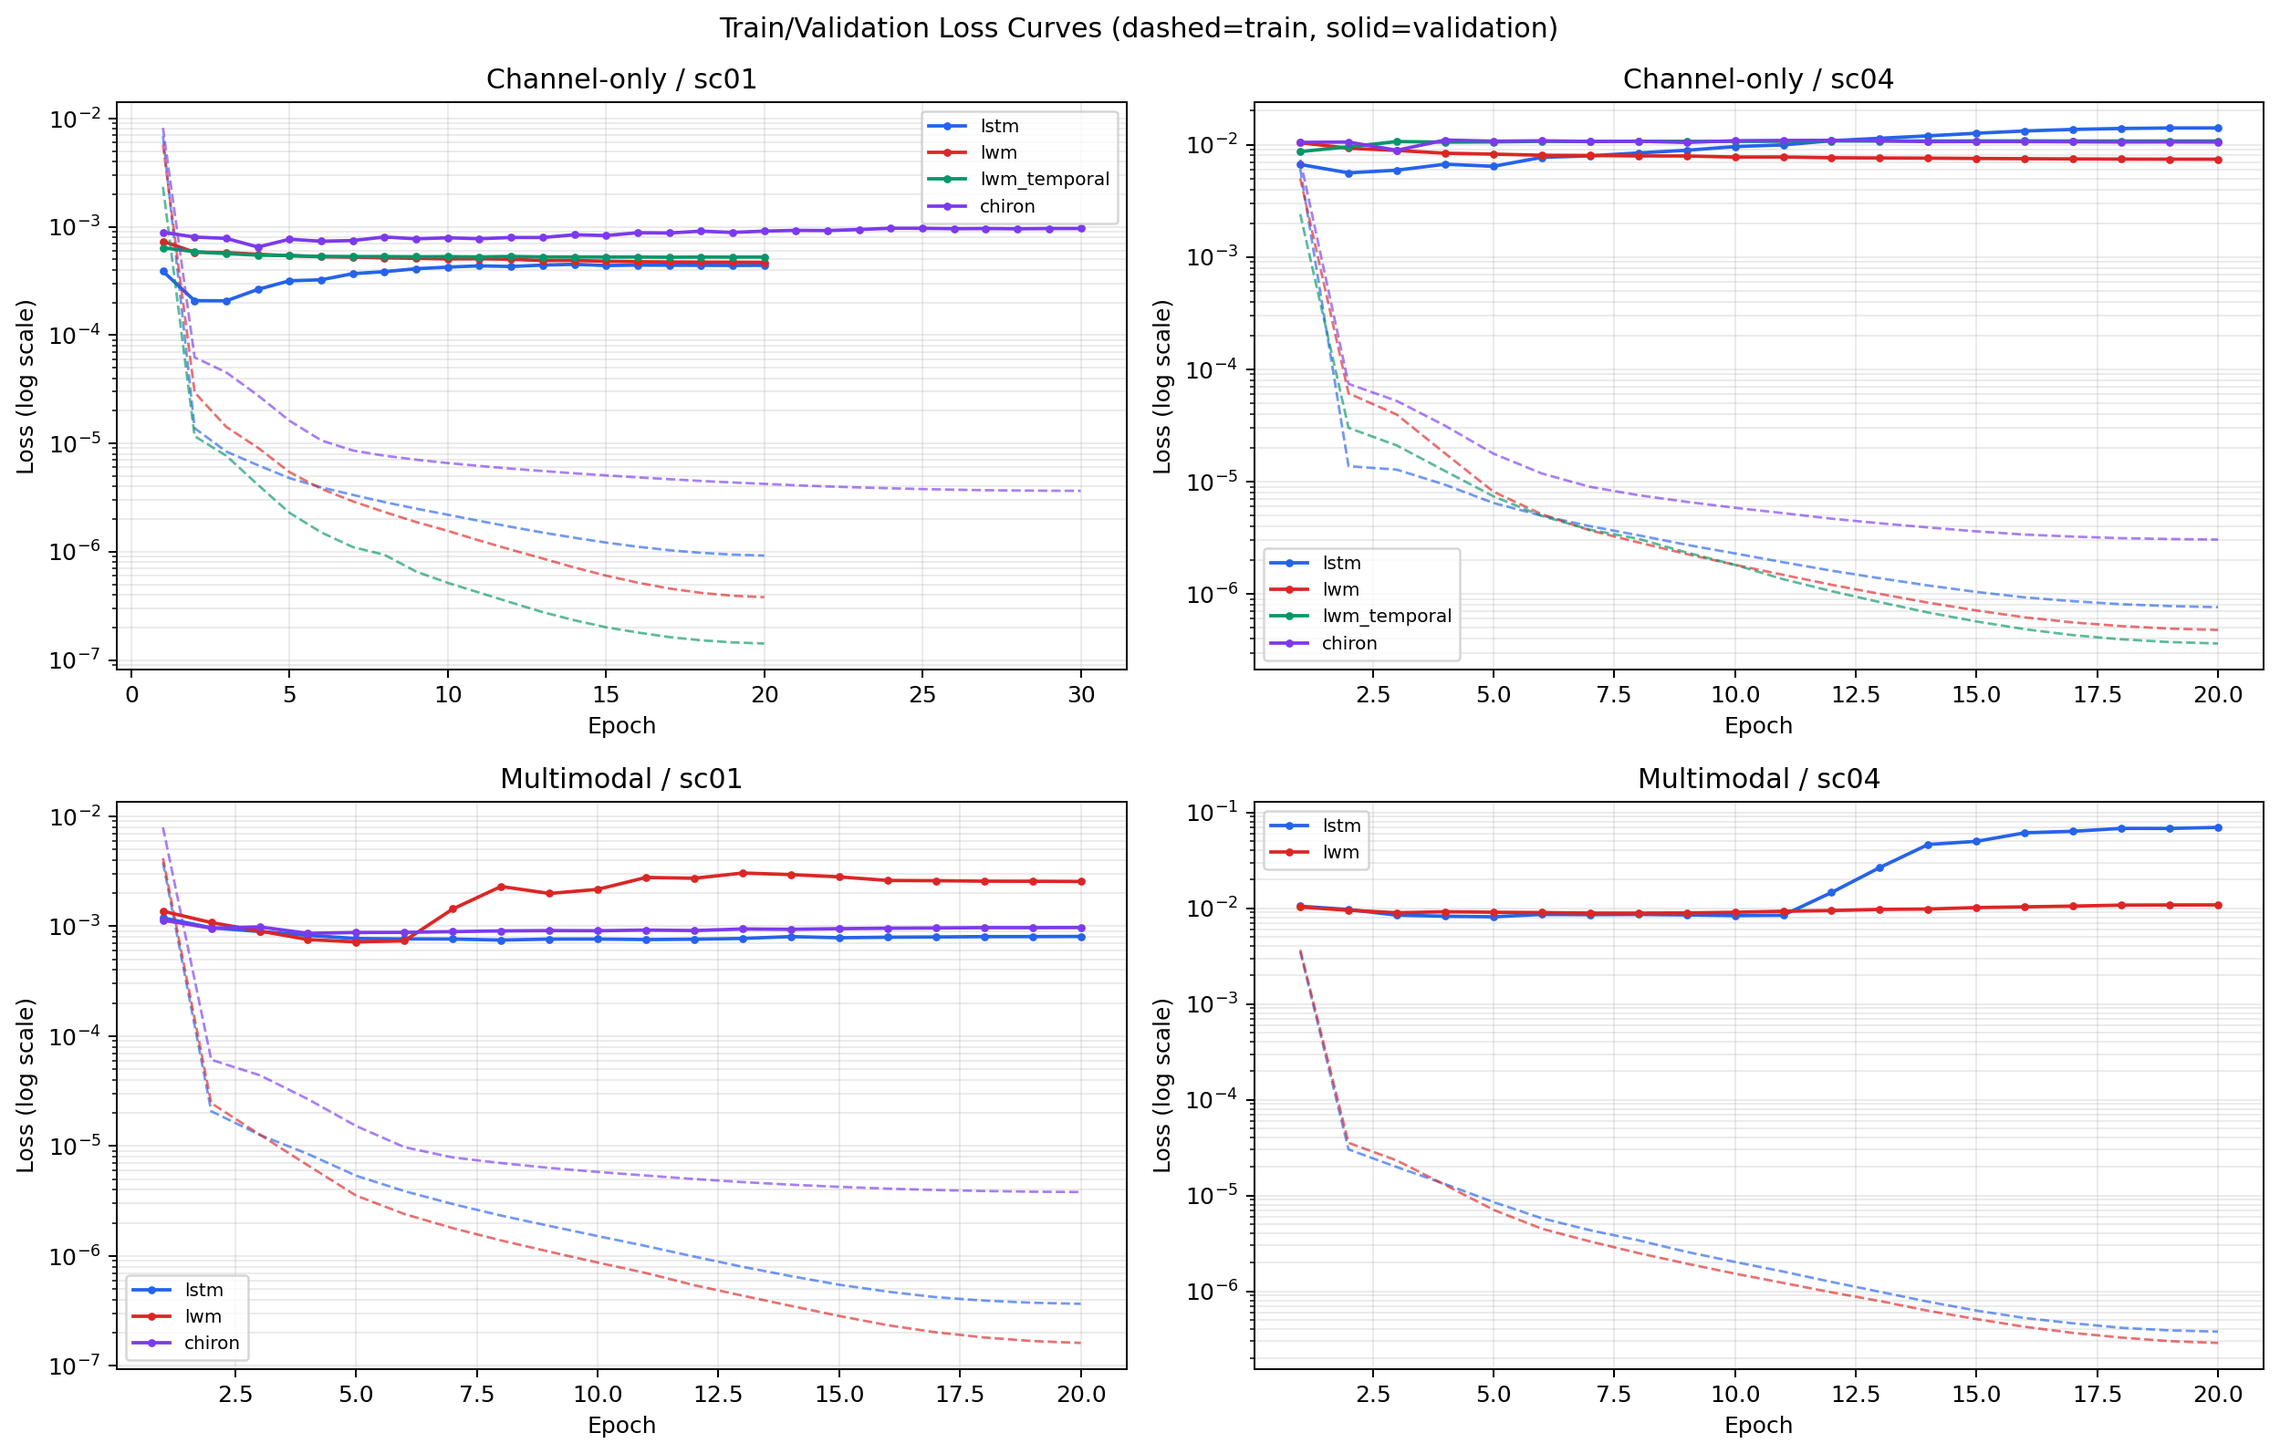
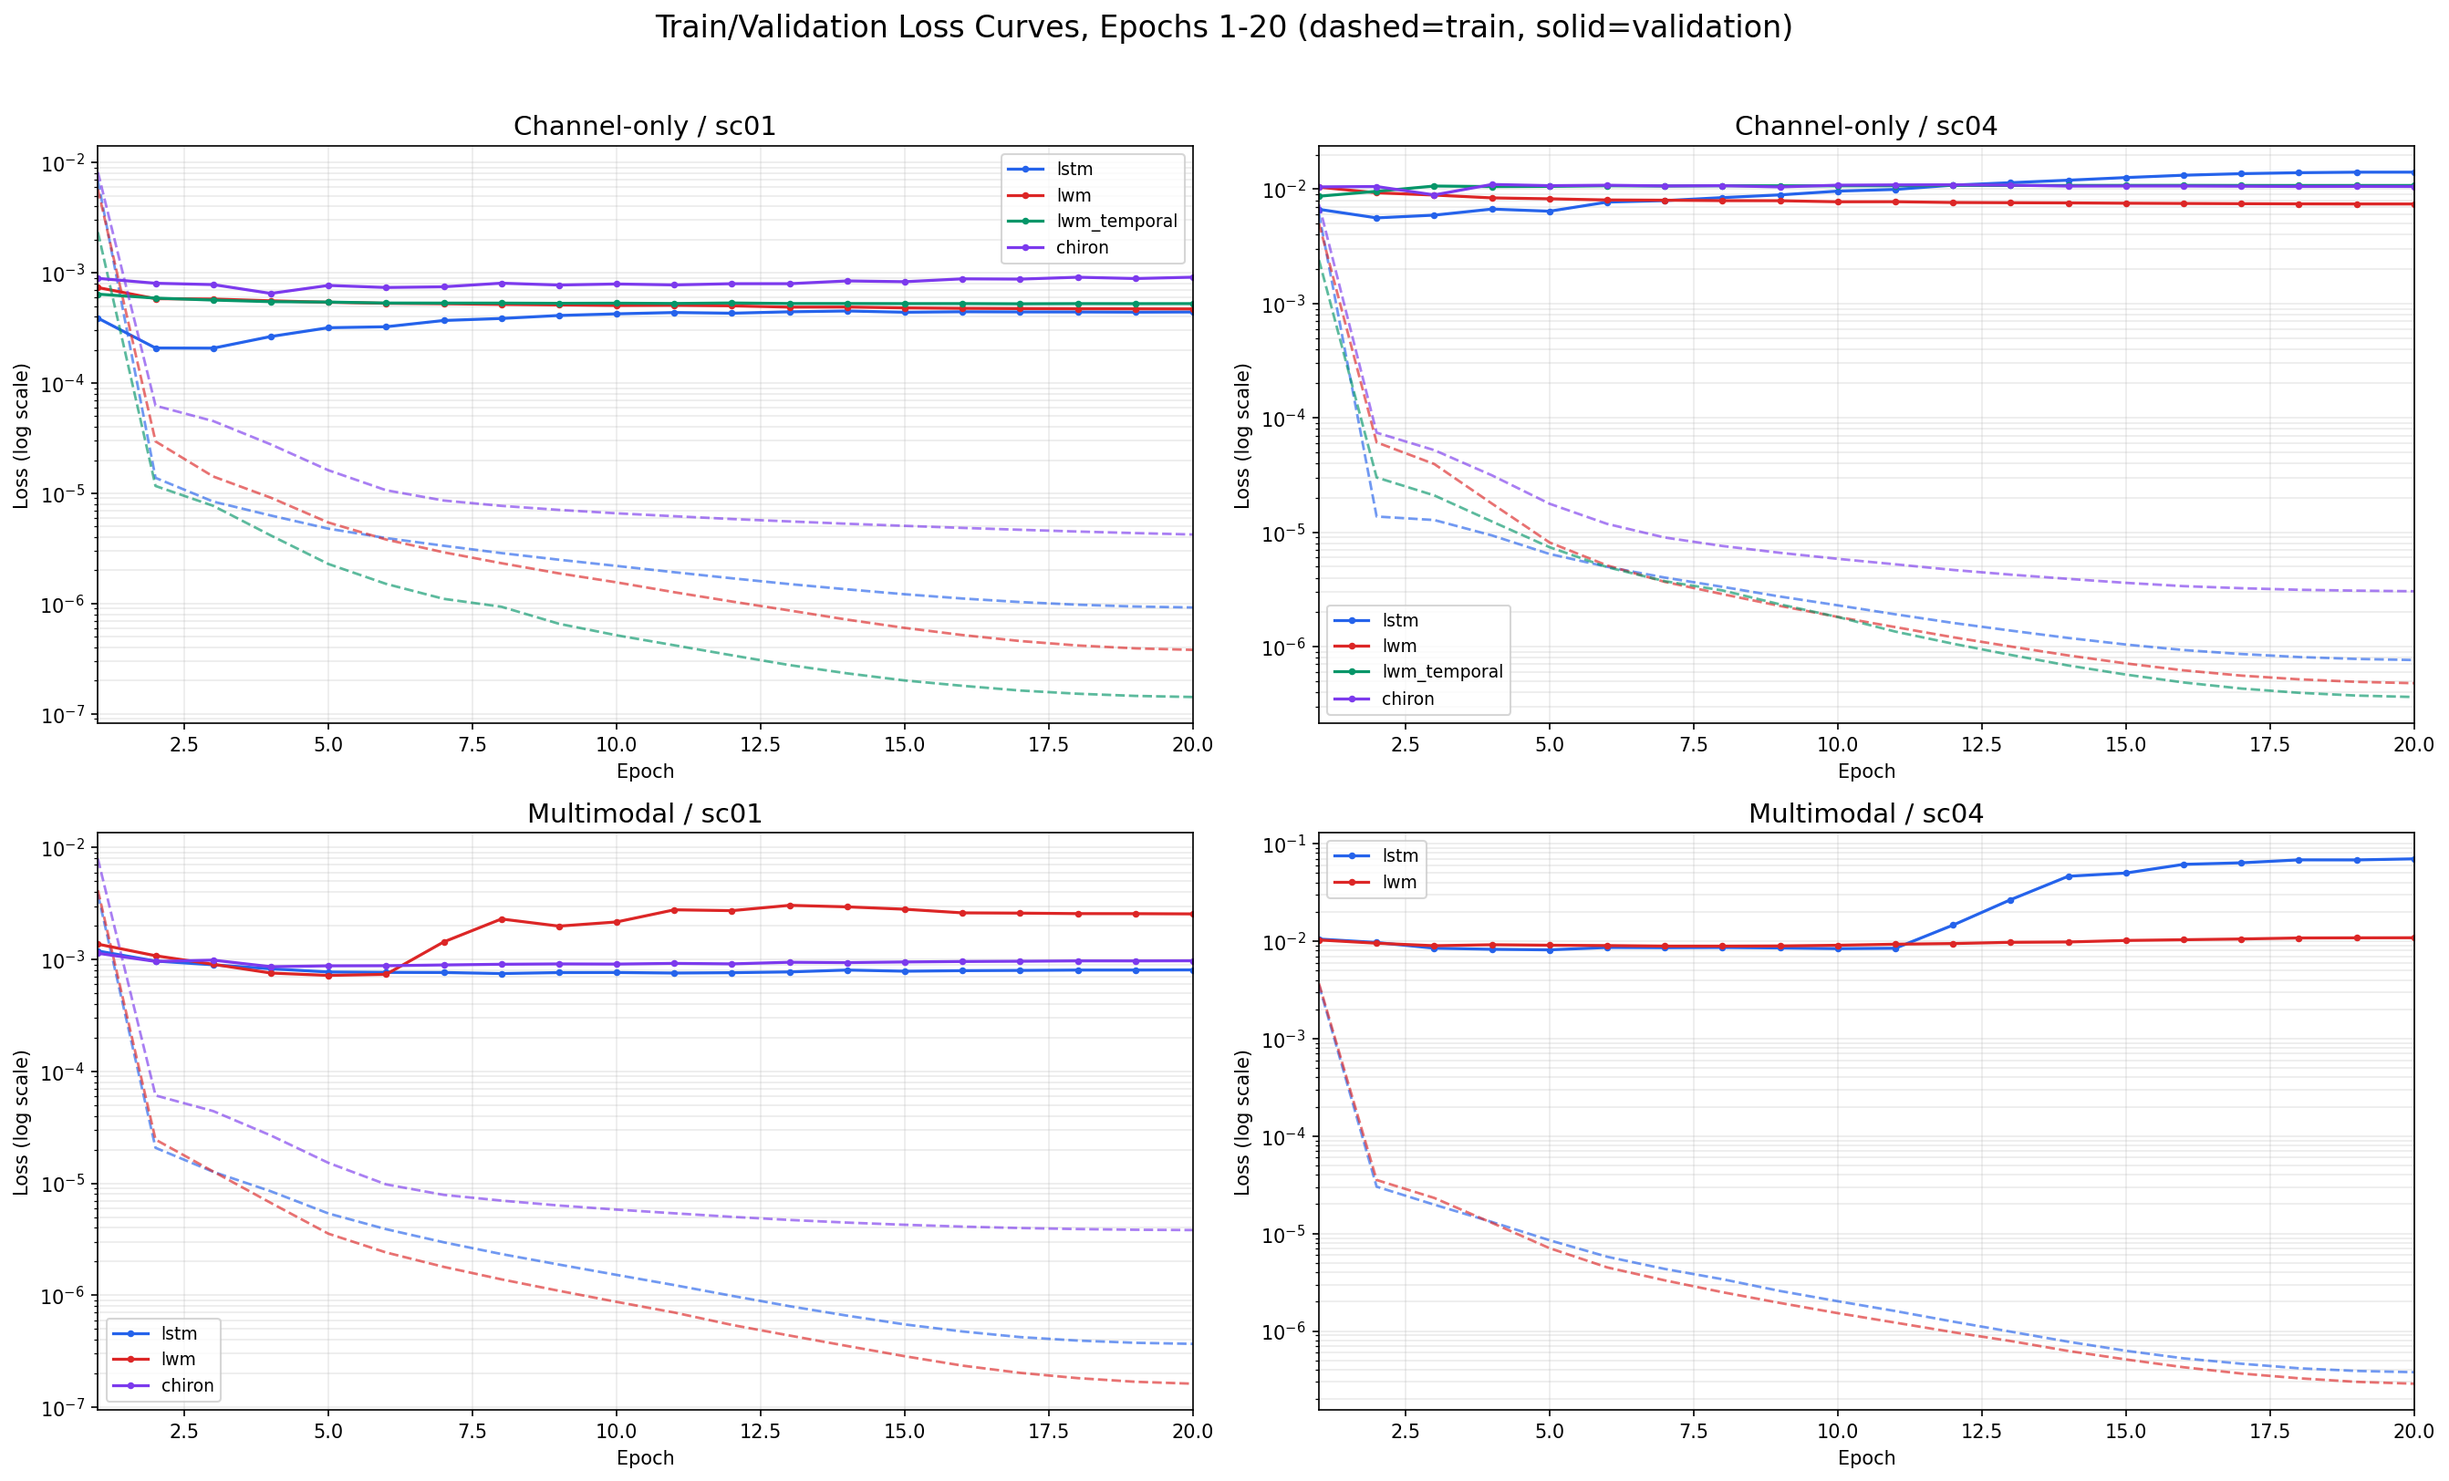
docs: limit loss curves to epoch 20

diff --git a/EXPERIMENT_RESULTS.md b/EXPERIMENT_RESULTS.md
@@ -54,9 +54,9 @@ metric.
 
 ![Train and validation NMSE curves](docs/images/results/sc01_sc04_train_val_nmse_curves.png)
 
-### Train and Validation Loss Curves
+### Train and Validation Loss Curves (Epochs 1-20)
 
-![Train and validation loss curves](docs/images/results/sc01_sc04_train_val_loss_curves.png)
+![Train and validation loss curves through epoch 20](docs/images/results/sc01_sc04_train_val_loss_curves.png)
 
 ### Train-Validation Generalization Gap
 
